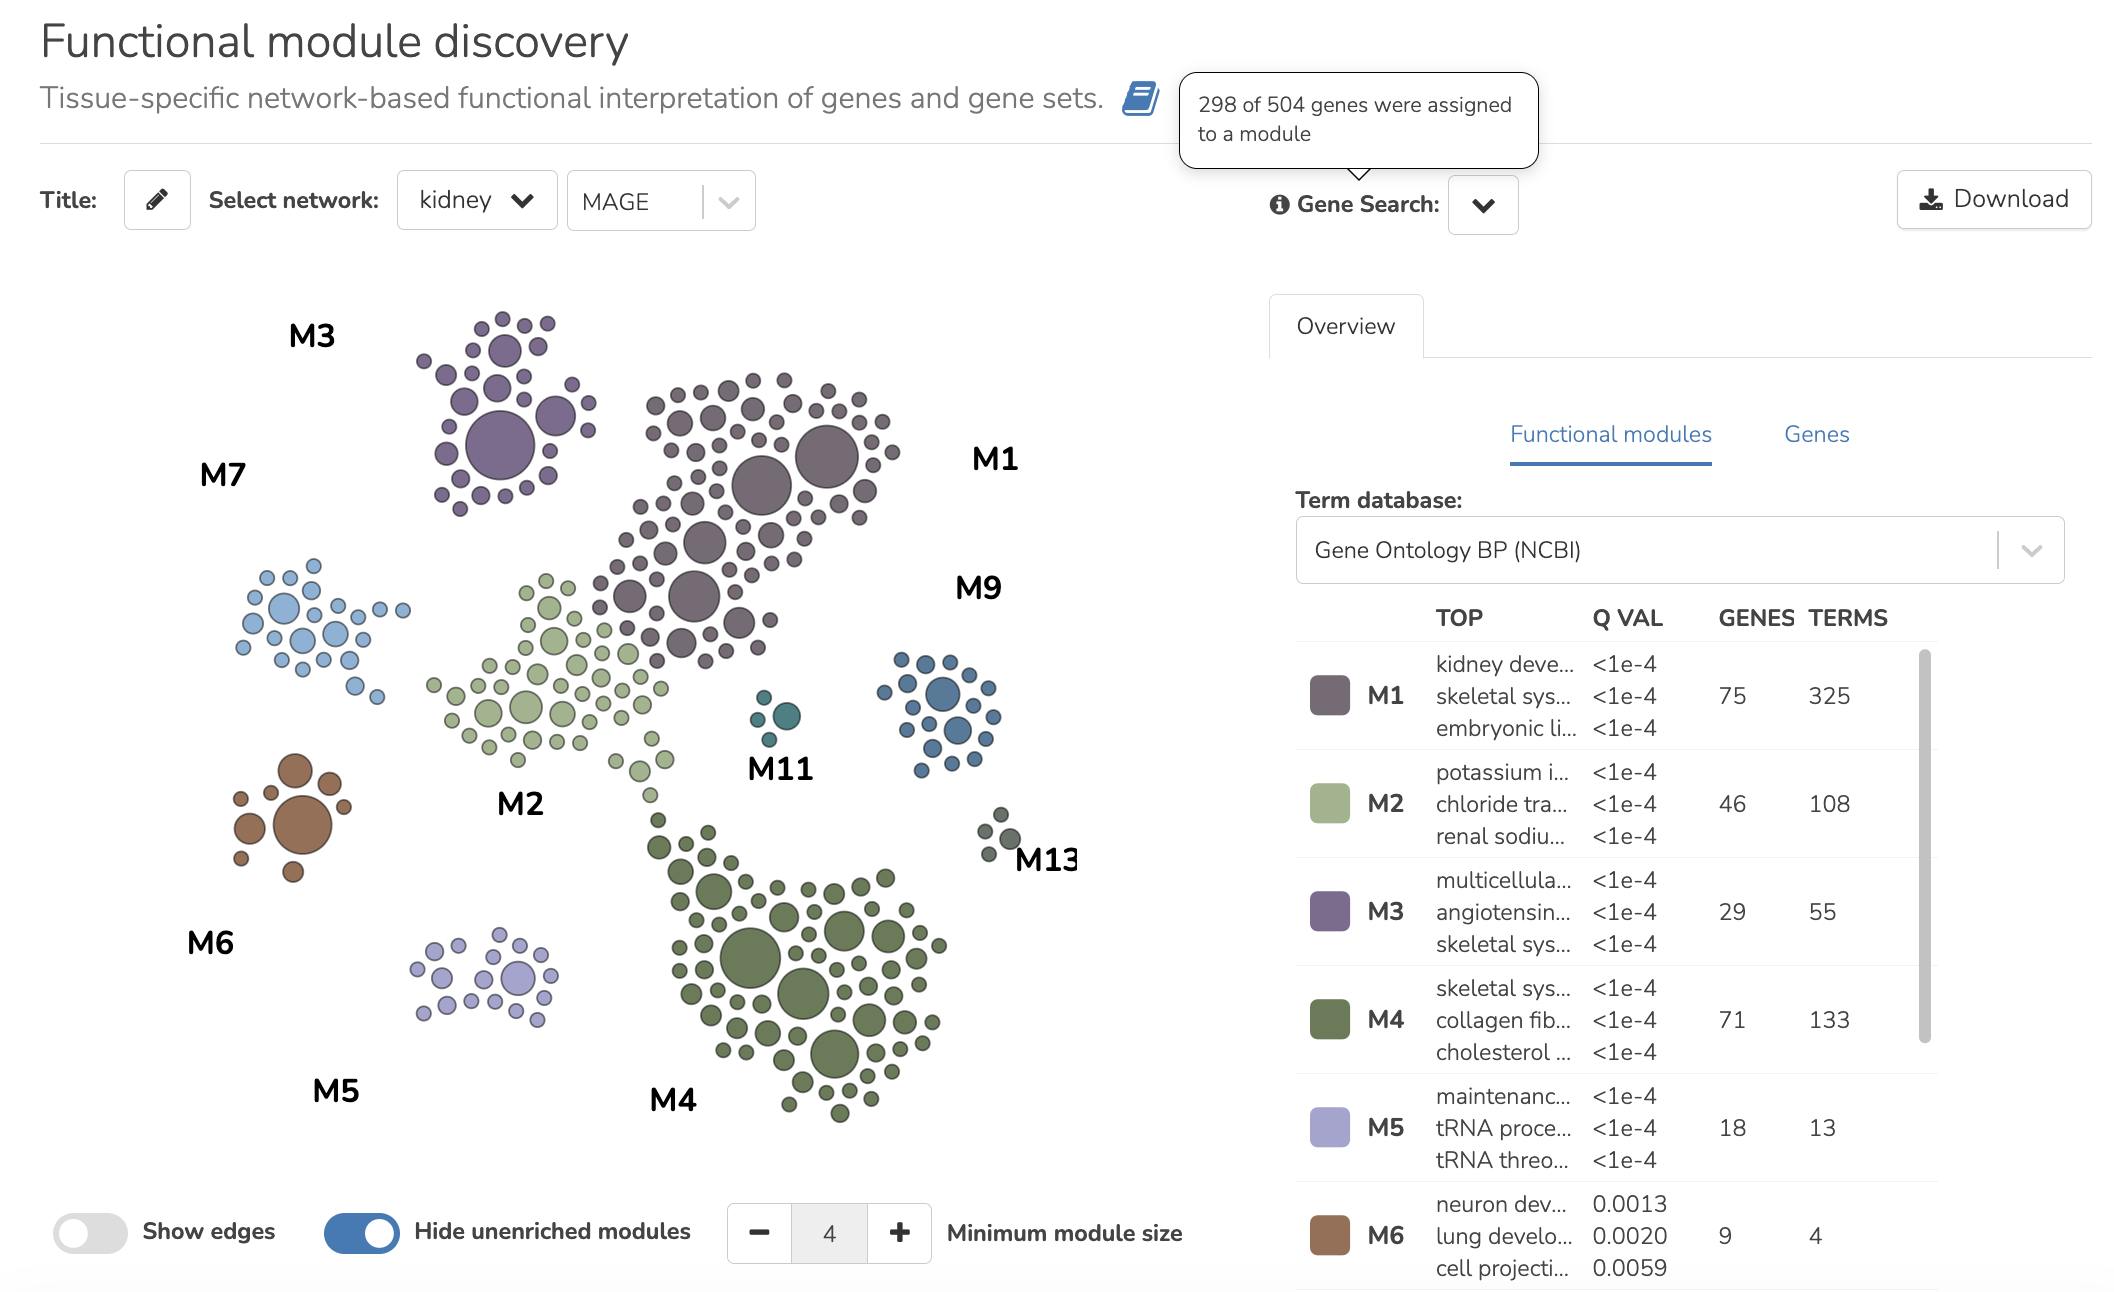
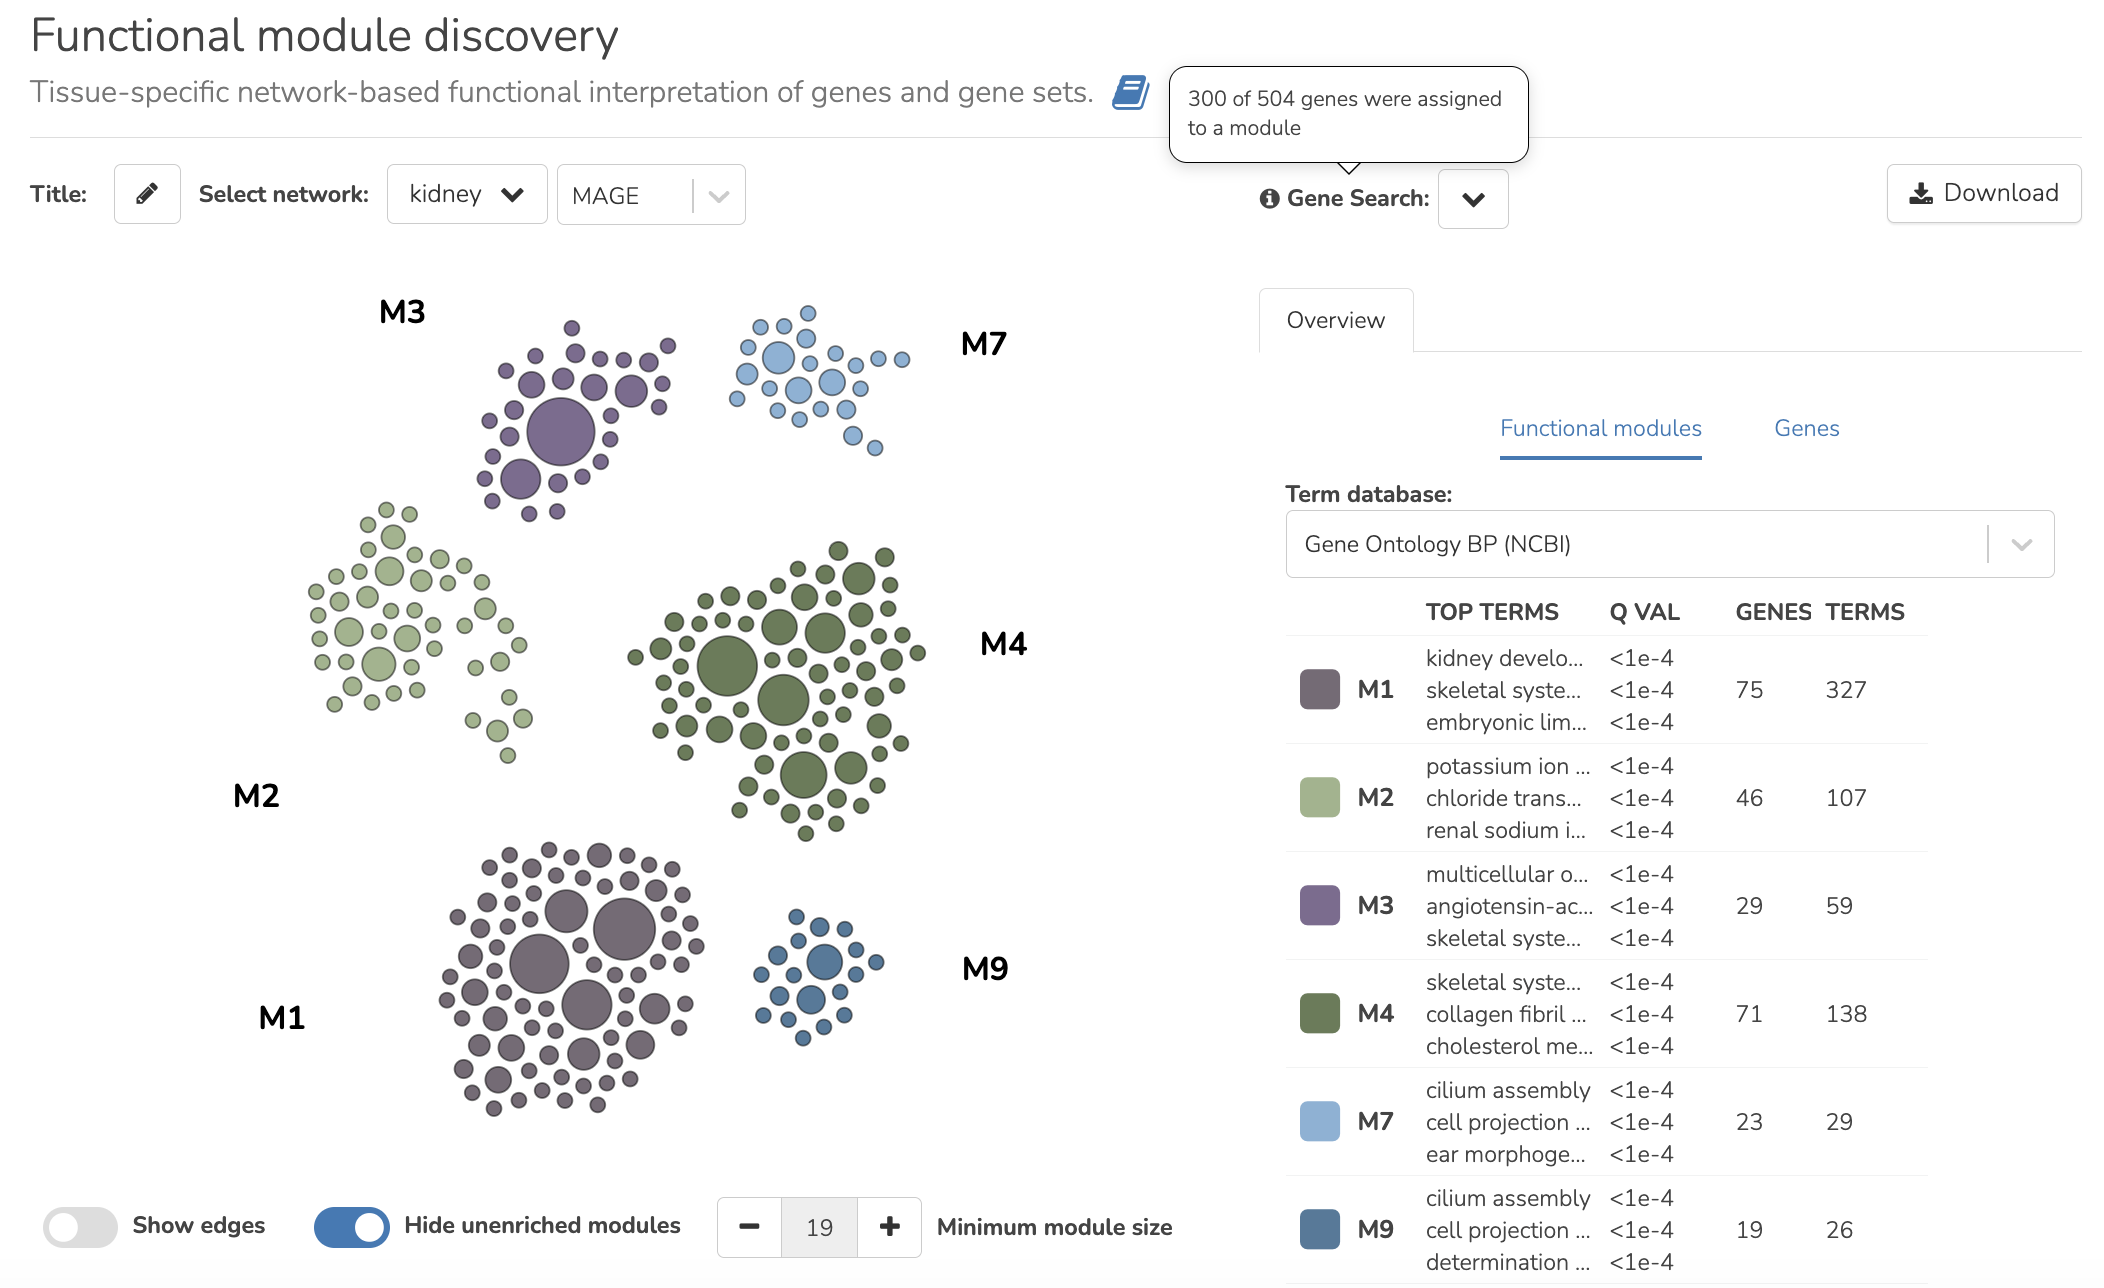
updated fmd renal use case

diff --git a/docs/use-cases/functional-module-clustering.rst b/docs/use-cases/functional-module-clustering.rst
@@ -26,7 +26,7 @@ The second use case is from a Biongenetic commercial renal panel to screen for p
 **Task: How can I determine specific processes and phenotypes that these disease genes participate in, and how do these genes differ in function in the global vs. relevant tissue network?**
 
 
-* Select the “Modules” analysis. Input genes of interest (504 genes). Select the desired network (nephron). Select “Search.”
+* Select the “Modules” analysis. Input genes of interest (504 genes). Select the desired network (kidney). Select “Search.”
 
 .. figure:: ../img/use-cases/functional-module-3.png
    :align: center